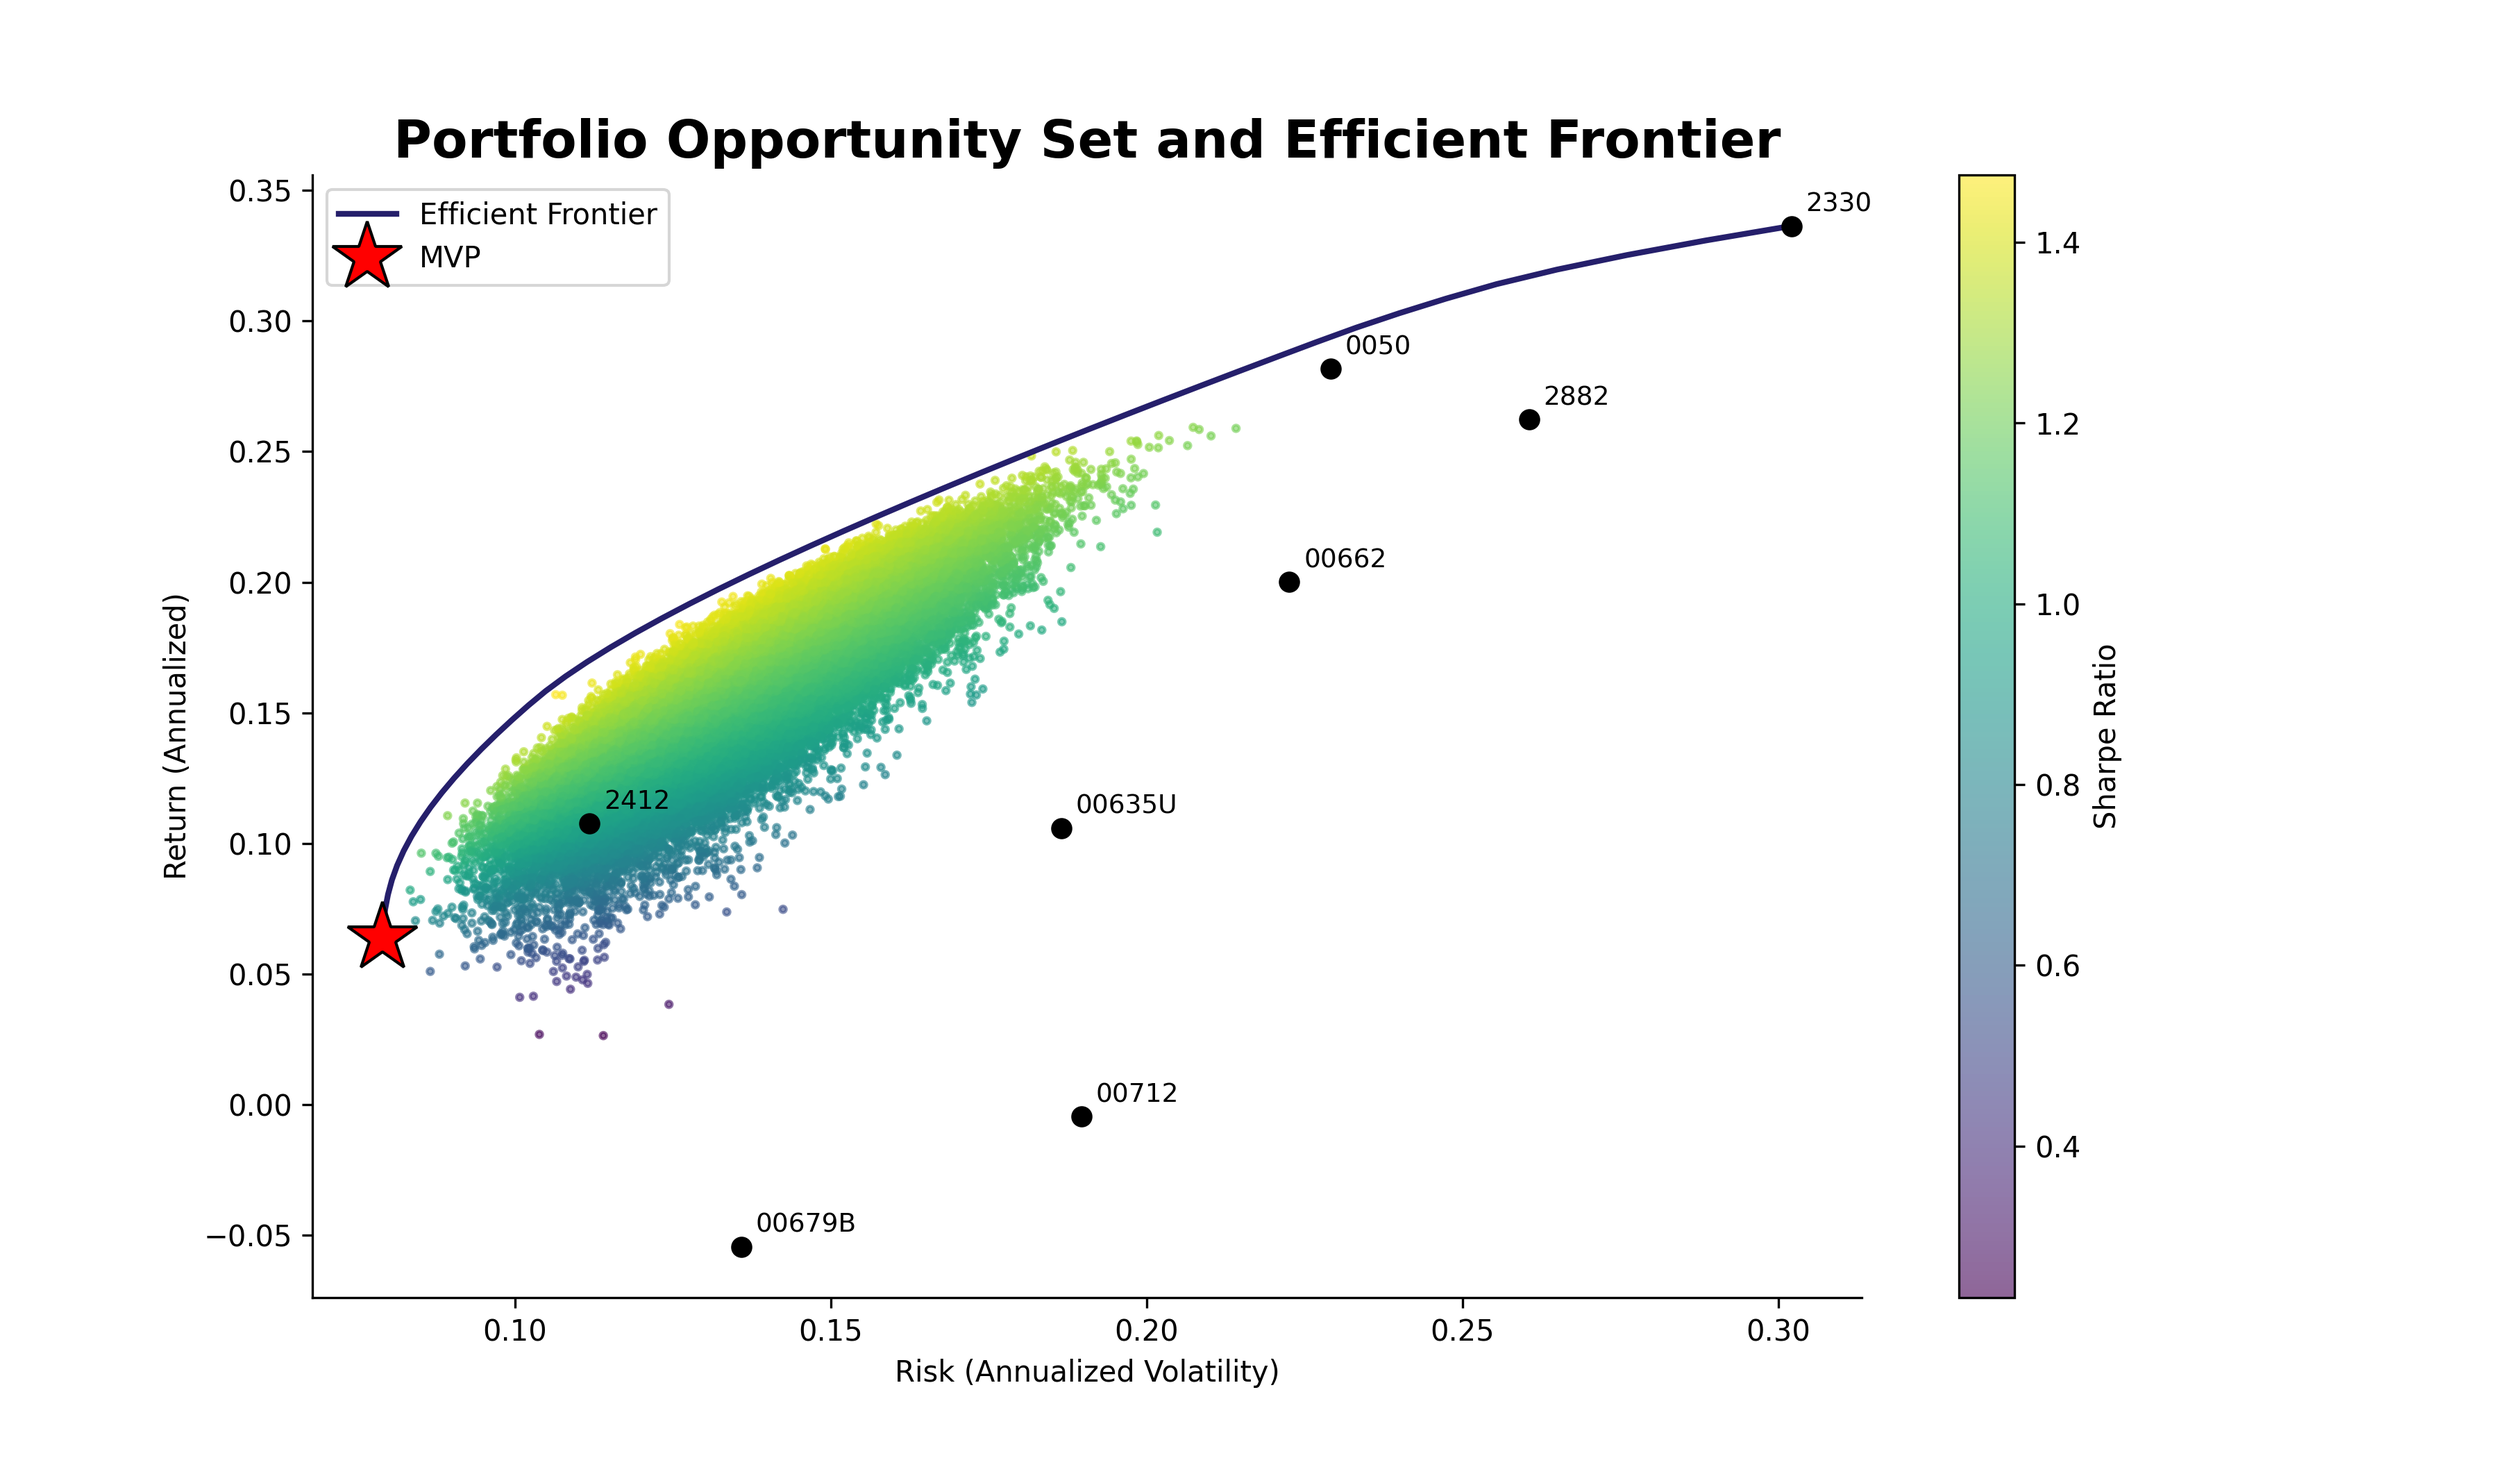
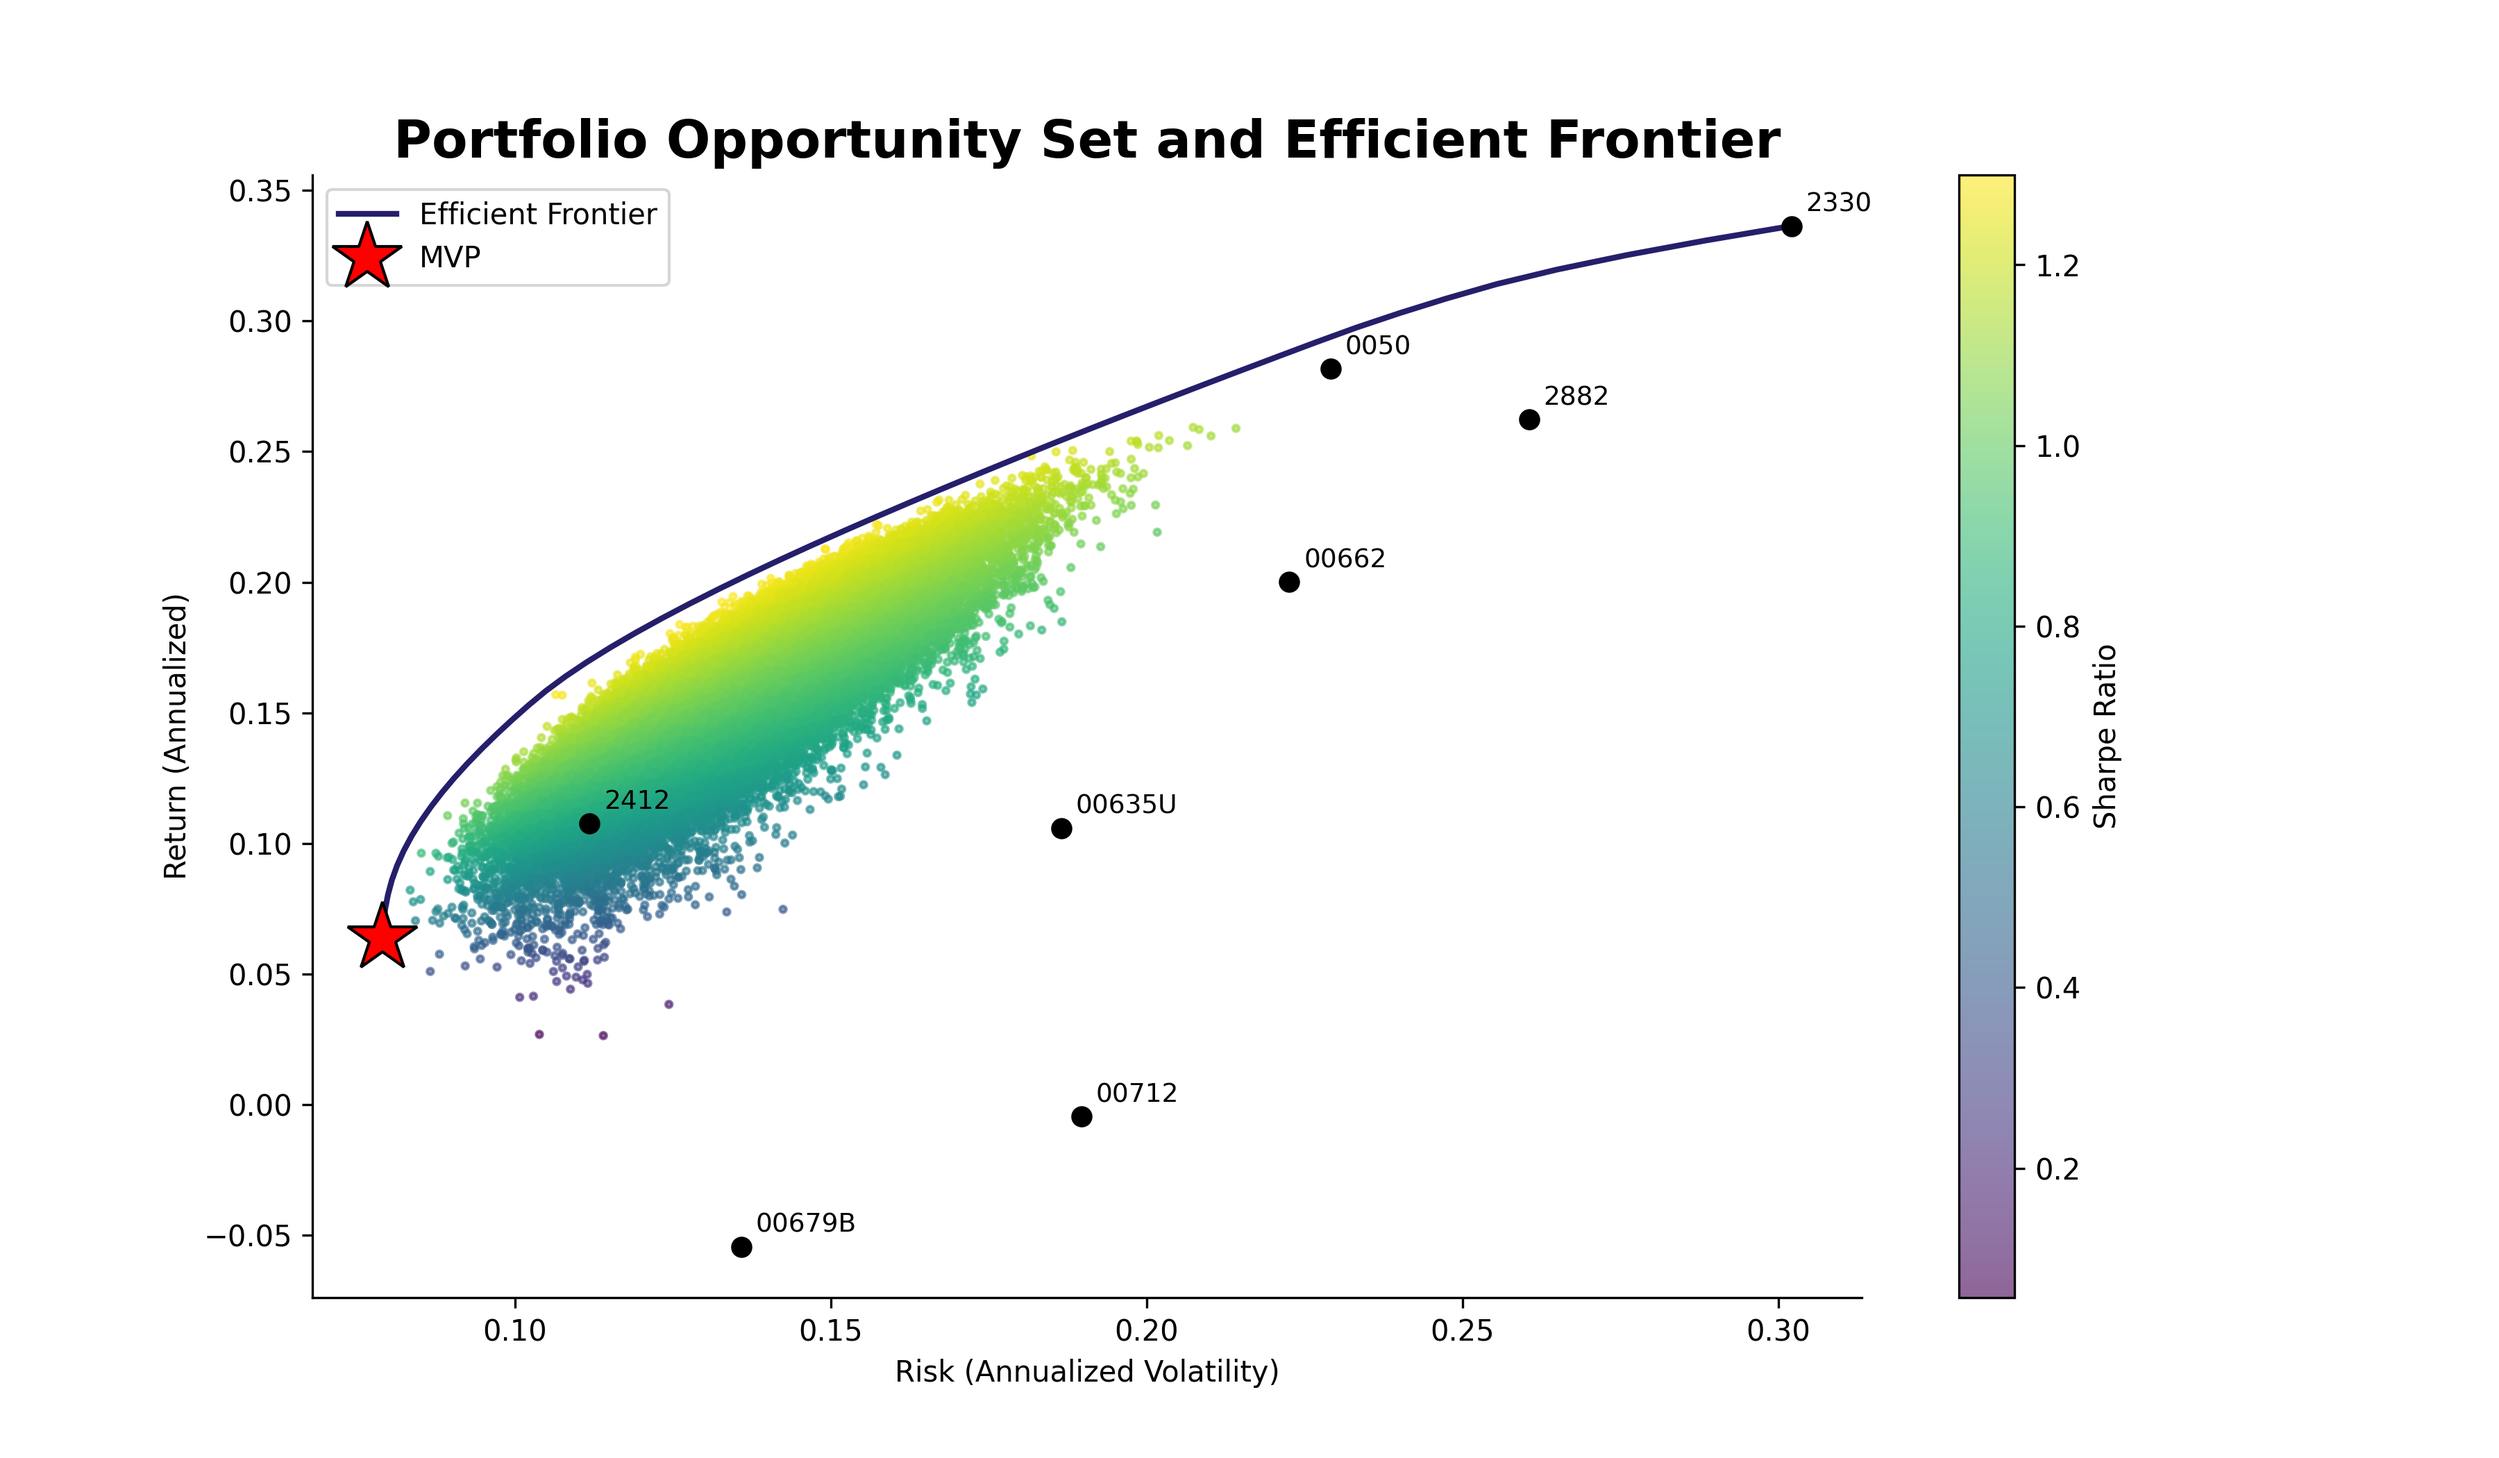
test MAX_WEIGHT

diff --git a/index.html b/index.html
@@ -177,9 +177,6 @@
         <button id="toPortfolioBtn" class="btn btn--primary" type="button">查看建議投資組合 →</button>
       </div>
 
-      <p class="results__note">此結果已儲存在瀏覽器的 <code>roboAdvisorProfile.phase1</code> 與
-        <code>roboAdvisorProfile.phase2</code> 中——之後財務條件與動態風險畫像階段會一併讀取這兩份資料。
-      </p>
     </section>
 
     <section id="portfolioPage" class="card results hidden" aria-live="polite">
@@ -193,9 +190,18 @@
           在單一標的不超過 40%、不放空的限制下，求出風險對應的最大預期報酬組合。</p>
 
         <div class="portfolio-stats">
-          <div class="portfolio-stat"><p id="portfolioReturn" class="portfolio-stat__value"></p><p class="portfolio-stat__label">預期年化報酬</p></div>
-          <div class="portfolio-stat"><p id="portfolioRisk" class="portfolio-stat__value"></p><p class="portfolio-stat__label">年化波動（風險）</p></div>
-          <div class="portfolio-stat"><p id="portfolioSharpe" class="portfolio-stat__value"></p><p class="portfolio-stat__label">夏普值</p></div>
+          <div class="portfolio-stat">
+            <p id="portfolioReturn" class="portfolio-stat__value"></p>
+            <p class="portfolio-stat__label">預期年化報酬</p>
+          </div>
+          <div class="portfolio-stat">
+            <p id="portfolioRisk" class="portfolio-stat__value"></p>
+            <p class="portfolio-stat__label">年化波動（風險）</p>
+          </div>
+          <div class="portfolio-stat">
+            <p id="portfolioSharpe" class="portfolio-stat__value"></p>
+            <p class="portfolio-stat__label">夏普值</p>
+          </div>
         </div>
 
         <div class="results__chart results__chart--small">

diff --git a/js/portfolio-data.js b/js/portfolio-data.js
@@ -2,7 +2,7 @@
 window.RoboAdvisor = window.RoboAdvisor || {};
 RoboAdvisor.portfolioData = {
   "maxWeight": 0.4,
-  "riskFree": 0.0,
+  "riskFree": 0.02,
   "period": [
     "2021-01-04",
     "2026-10-15"

diff --git a/portfolio/Risk_Based_Allocation.py b/portfolio/Risk_Based_Allocation.py
@@ -27,7 +27,7 @@ HERE = Path(__file__).resolve().parent
 PRICE_FILE = HERE / "clean_prices.csv"
 
 TRADING_DAYS = 252
-RISK_FREE = 0.0      # 無風險利率（與 MPT_Opportunity_Set_MVP.py 一致）
+RISK_FREE = 0.02      # 無風險利率（與 MPT_Opportunity_Set_MVP.py 一致）
 MAX_WEIGHT = 0.40    # 單一資產權重上限，避免積極型整個押在單一標的
 
 # 資產分類與名稱（只用於白話建議與圖表說明；換股後沒列在這裡的代號會直接顯示代號、歸為「其他」）

diff --git a/portfolio/MPT_Opportunity_Set_MVP.py b/portfolio/MPT_Opportunity_Set_MVP.py
@@ -78,7 +78,7 @@ for target in efficient_frontier_return_range:
     efficient_frontier_risk_list.append(result.fun)
 
 # 6. 繪圖
-risk_free = 0.0
+risk_free = 0.02
 
 fig = plt.figure(figsize=(12, 7))
 ax = fig.add_subplot()
